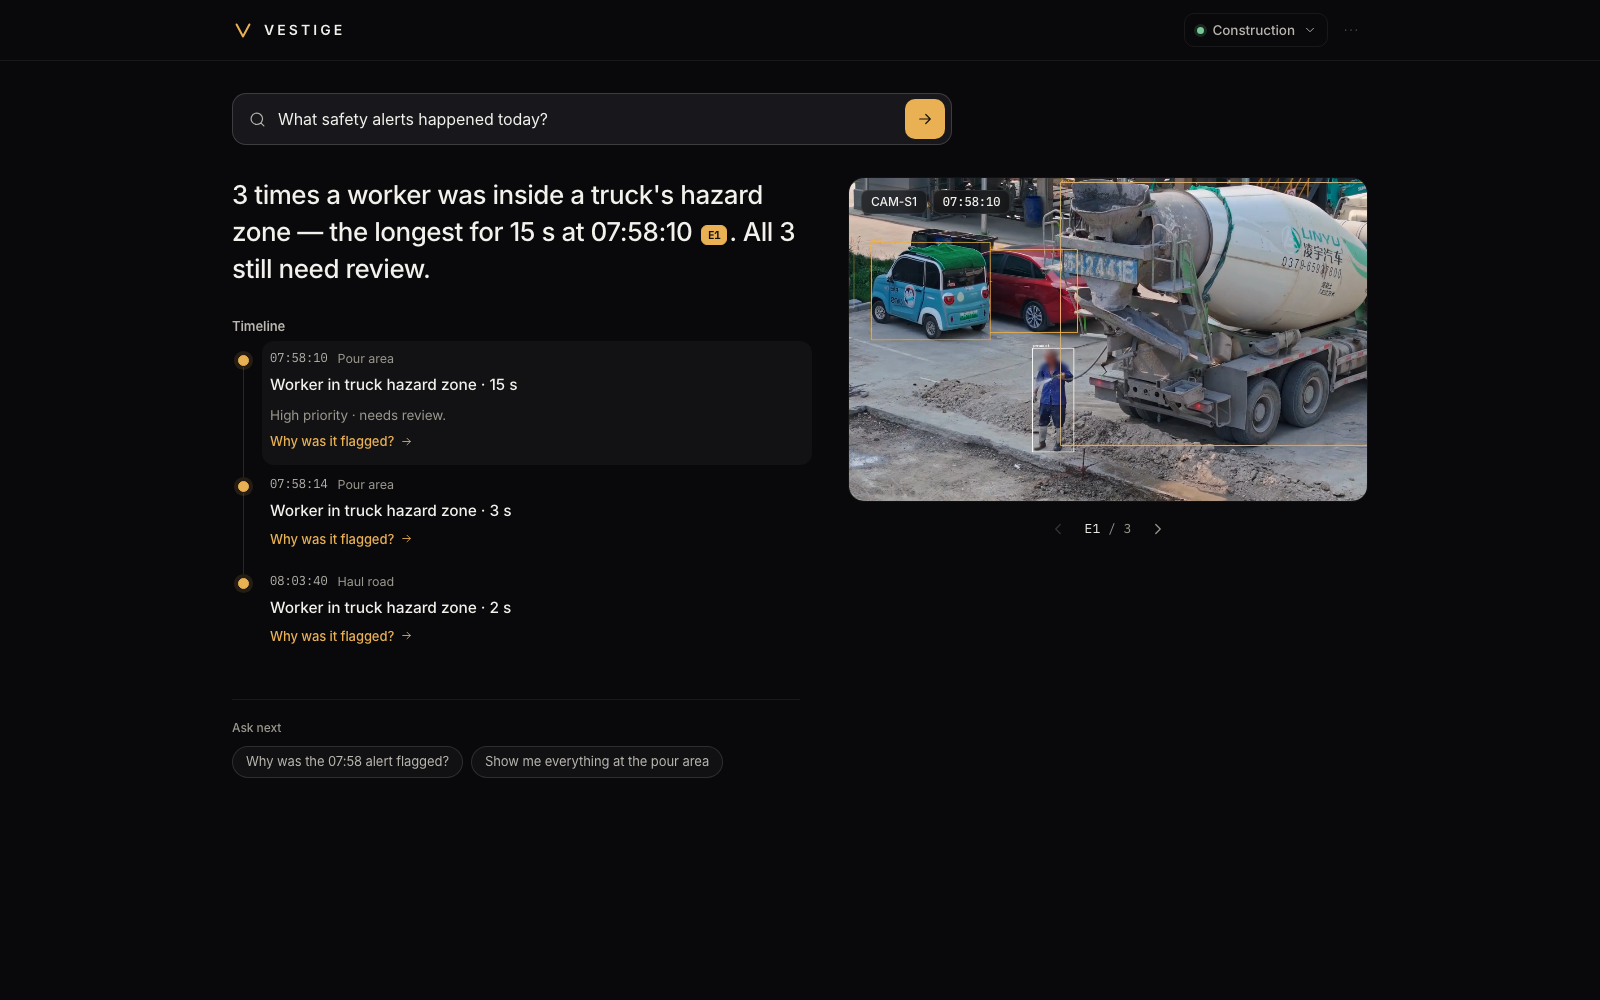
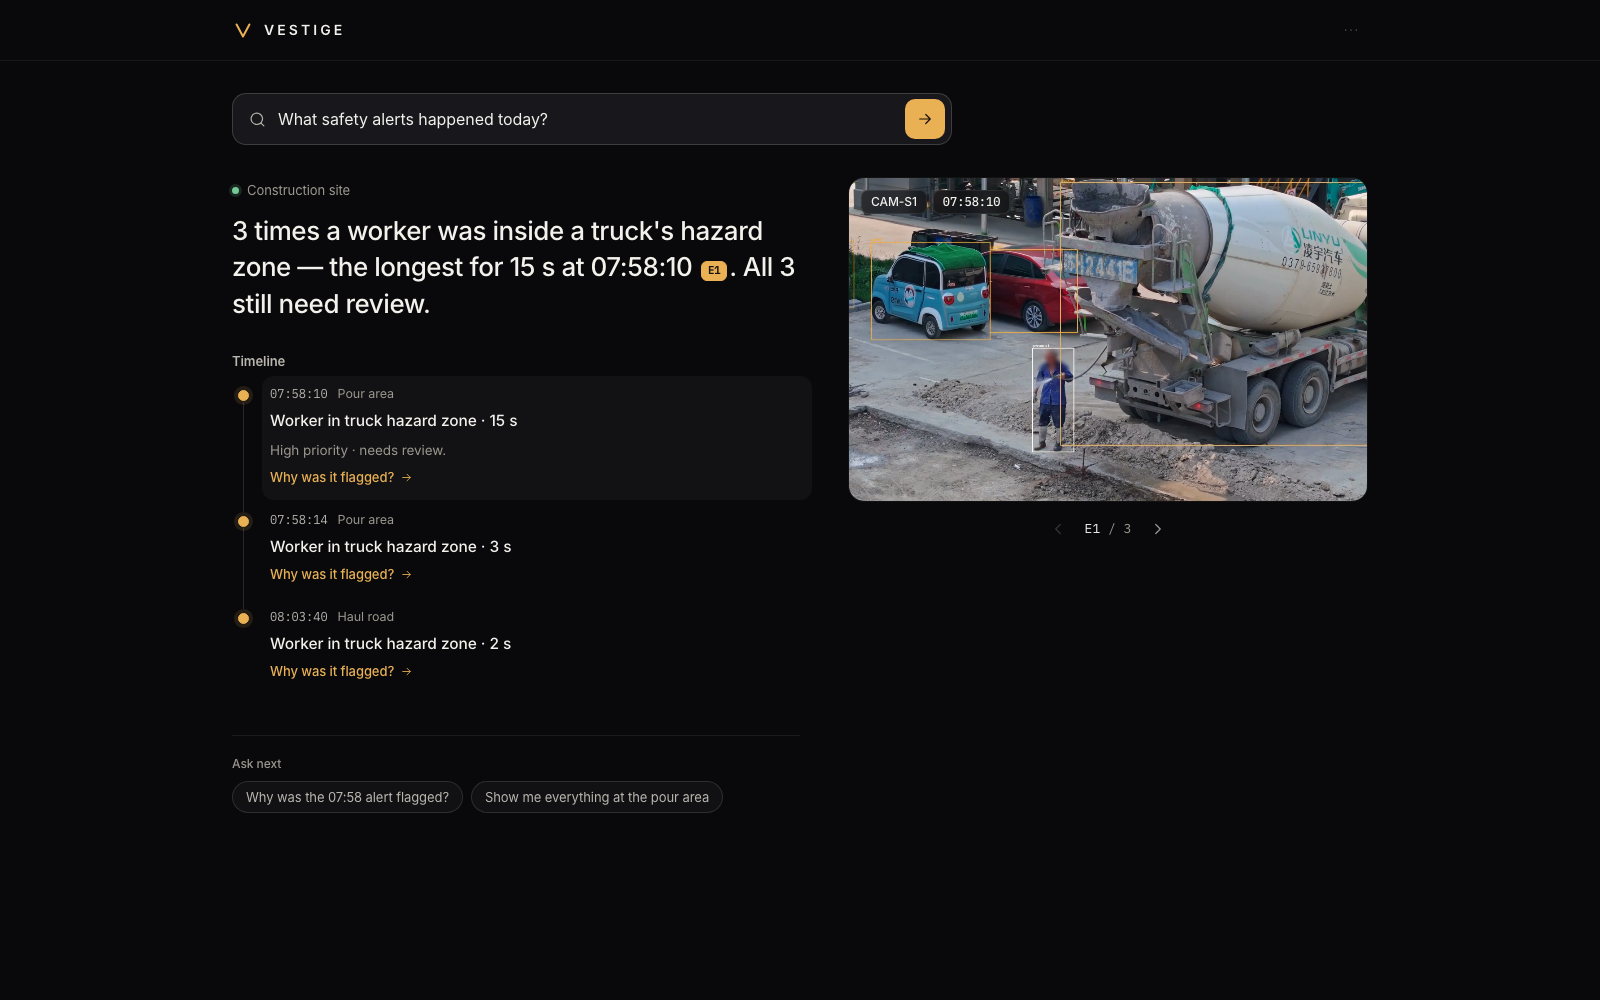
One search box for every site: questions are routed to the right site; alerts merged into one list
- POST /api/ask routes by keywords, clock time of an alert, or best evidence; event questions use the event's site
- GET /api/alerts merges open alerts across sites; GET /api/suggestions
- Home: no site tabs or switcher; one showcase, examples spanning all sites, one 'Needs review' list
- Answer shows which site it came from; test for routing

Changed region(s): [[0.125, 0.186, 0.5, 0.682], [0.1562, 0.744, 0.4375, 0.806]]

diff --git a/app/pages/ask.js b/app/pages/ask.js
@@ -4,21 +4,15 @@ import { Cited, Err, html, Icon, Skel, Steps, Story, Toast, Viewer, hhmmss } fro
 import { SiteMap } from "./memory.js";
 
 // Alerts waiting for a person, shown on the home page: one click opens the answer.
-function Inbox({ ws, onOpen }) {
+function Inbox({ onOpen }) {
   const [items, setItems] = useState(null);
-  useEffect(() => {
-    api.events(ws).then(async (evs) => {
-      const open = evs.filter((e) => e.status === "open").sort((a, b) => a.ts_start.localeCompare(b.ts_start)).slice(0, 4);
-      const withImg = await Promise.all(open.map(async (e) => ({ ...e, img: e.evidence_id ? (await api.evidence(e.evidence_id, ws).catch(() => null))?.url : null })));
-      setItems(withImg);
-    }).catch(() => setItems([]));
-  }, [ws]);
+  useEffect(() => { api.alerts().then((xs) => setItems(xs.slice(0, 4))).catch(() => setItems([])); }, []);
   if (!items?.length) return null;
   return html`<section class="inbox fadein">
     <div class="section-t">Needs review <span class="dim">· ${items.length}</span></div>
     <div class="inbox-row">${items.map((e) => html`<button class="alert" onClick=${() => onOpen(e)}>
       ${e.img ? html`<img src=${e.img} alt="" loading="lazy" />` : html`<div class="alert-noimg"></div>`}
-      <div class="alert-b"><b>${e.title}</b><span><i class=${`pdot ${e.priority}`}></i>${hhmmss(e.ts_start)}${e.metrics?.duration_s ? ` · ${Math.round(e.metrics.duration_s)} s` : ""}</span></div>
+      <div class="alert-b"><b>${e.title}</b><span><i class=${`pdot ${e.priority}`}></i>${hhmmss(e.ts_start)} · ${e.place || e.site}</span></div>
     </button>`)}</div>
   </section>`;
 }
@@ -46,12 +40,12 @@ const clip = (t, n = 64) => (t.length > n ? t.slice(0, n - 1).replace(/\s+\S*$/,
 
 // Showcase: a real answer from this workspace's memory, told as a strip of moments.
 // Solid = observed on camera, dashed = inferred between cameras, hatched gap = no coverage.
-function Showcase({ ws, setWs, go }) {
-  const scene = SCENES.find((x) => x.ws === ws) || SCENES[0];
+function Showcase({ go }) {
+  const scene = SCENES[0];
   const [ans, setAns] = useState(null);
   const [i, setI] = useState(0);
   const [auto, setAuto] = useState(true);
-  useEffect(() => { api.ask(scene.ws, scene.q).then(setAns).catch(() => setAns(null)); }, [scene.ws]);
+  useEffect(() => { api.ask(scene.ws, scene.q).then(setAns).catch(() => setAns(null)); }, []);
   const moments = (ans?.steps || []).filter((st) => st.n != null || st.status === "UNKNOWN")
     .sort((a, b) => (a.ts && b.ts ? a.ts.localeCompare(b.ts) : 0))
     .filter((st, k, arr) => k === 0 || st.n == null || st.n !== arr[k - 1].n).slice(0, 5);
@@ -67,11 +61,10 @@ function Showcase({ ws, setWs, go }) {
   const frame = cite?.url || lastFrame.current;
   return html`<div class="show">
     <div class="show-top">
-      <div class="seg" role="tablist" aria-label="Demo workspace">${SCENES.map((x) => html`<button role="tab" aria-selected=${x.ws === ws}
-        class=${x.ws === ws ? "on" : ""} onClick=${() => setWs(x.ws)}>${x.name}</button>`)}</div>
-      <button class="link" onClick=${() => go("ask", null, { ws: scene.ws, q: scene.q })}>“${scene.q}” <${Icon} name="arrow" size=${14} /></button>
+      <span class="show-site"><span class="live"></span>${scene.name}</span>
+      <button class="link" onClick=${() => go("ask", null, { q: scene.q })}>“${scene.q}” <${Icon} name="arrow" size=${14} /></button>
     </div>
-    <div class="show-frame" role="button" tabindex="0" onClick=${() => go("ask", null, { ws: scene.ws, q: scene.q })}>
+    <div class="show-frame" role="button" tabindex="0" onClick=${() => go("ask", null, { q: scene.q })}>
       ${frame ? html`<img key=${frame} class="fadein-fast" src=${frame} alt=${cite?.caption || "evidence frame"} />` : html`<div class="skel" style="position:absolute;inset:0"></div>`}
       ${cur?.status === "UNKNOWN" ? html`<div class="show-unknown"><span>No camera covers what happened next.</span></div>` : null}
       ${cur ? html`<div class="show-cap"><span class=${`tag-s ${cur.status}`}>${STATE[cur.status] || cur.status}</span>
@@ -106,7 +99,7 @@ export function AskPage({ ws, setWs, go, route }) {
     if (!text) return;
     setQ(text); setBusy(true); setErr(null); setReviewed(null);
     try {
-      const r = await api.ask(ws, text, eventId);
+      const r = await api.askAny(text, eventId);
       // default to the evidence that answers the question (first citation in the conclusion)
       const m = (r.headline || "").match(/\[E(\d+)\]/);
       const visual = r.citations.find((c) => c.url || c.proxy_url || c.clip_url);
@@ -124,7 +117,10 @@ export function AskPage({ ws, setWs, go, route }) {
   const review = async (d) => {
     try { await api.review(res.subject.id, d, ""); setReviewed(d); setToast("Saved to the audit log"); } catch (e) { setToast(String(e.message)); }
   };
-  useEffect(() => { api.overview(ws).then((o) => setSugs(o.suggestions || [])).catch(() => {}); }, [ws]);
+  const [examples, setExamples] = useState([]);
+  const [bySite, setBySite] = useState({});
+  useEffect(() => { api.suggestions().then((x) => { setExamples(x.examples); setBySite(x.by_site); }).catch(() => {}); }, []);
+  useEffect(() => { setSugs(res ? bySite[res.workspace?.id] || examples : examples); }, [res, bySite, examples]);
   useEffect(() => {
     const k = (e) => { if (e.key === "/" && document.activeElement !== input.current) { e.preventDefault(); input.current?.focus(); } };
     addEventListener("keydown", k);
@@ -146,12 +142,12 @@ export function AskPage({ ws, setWs, go, route }) {
           <h1 class="display">The world<br/>leaves a trace.</h1>
           <p class="lede">Ask what happened. See the footage that answers it.</p>
           ${box(true)}
-          <div class="chips">${sugs.slice(0, 2).map((s) => html`<button class="chip-q" onClick=${() => run(s)}>${s}</button>`)}</div>
+          <div class="chips">${examples.map((s) => html`<button class="chip-q" onClick=${() => run(s)}>${s}</button>`)}</div>
           <${Err} error=${err} />
         </div>
-        <div class="h-right"><${Showcase} ws=${ws} setWs=${setWs} go=${go} /></div>
+        <div class="h-right"><${Showcase} go=${go} /></div>
       </section>
-      <${Inbox} ws=${ws} onOpen=${openEvent} />
+      <${Inbox} onOpen=${openEvent} />
     </div>`;
   }
 
@@ -163,6 +159,7 @@ export function AskPage({ ws, setWs, go, route }) {
     ${busy ? html`<div class="answer-grid"><div class="stack"><${Skel} h=${44} w="70%" /><${Skel} h=${90} /><${Skel} h=${90} /><${Skel} h=${90} /></div><${Skel} h=${360} /></div>` : html`
     <div class="answer-grid fadein">
       <div class="a-head">
+        ${res.workspace ? html`<div class="where"><span class="live"></span>${res.workspace.name}</div>` : null}
         ${res.headline ? html`<p class="headline"><${Cited} text=${res.headline} citations=${res.citations} active=${active} onCite=${setActive} /></p>` : null}
         ${res.subject?.type === "event" ? html`<div class="verdict">
           ${reviewed ? html`<span class="note">Marked as ${reviewed === "confirmed" ? "a real incident" : reviewed === "rejected" ? "a false alarm" : "not sure"}.</span>`
@@ -175,7 +172,7 @@ export function AskPage({ ws, setWs, go, route }) {
         <div class="section-t">Timeline</div>
         ${res.steps?.length ? html`<${Steps} steps=${res.steps} active=${active} onPick=${setActive} onOpen=${(id, ts) => openEvent({ id, ts_start: ts })} />`
           : html`<${Story} sentences=${res.sentences} citations=${res.citations} active=${active} onPick=${setActive} gaps=${res.gaps} />`}
-        ${res.subject?.type === "object" ? html`<${ObjectMap} ws=${ws} id=${res.subject.id} />` : null}
+        ${res.subject?.type === "object" ? html`<${ObjectMap} ws=${res.workspace.id} id=${res.subject.id} />` : null}
         ${sugs.filter((x) => x !== res.question).length ? html`<div class="follow"><span class="label">Ask next</span>
           <div class="row wrap" style="gap:8px">${sugs.filter((x) => x !== res.question).slice(0, 3).map((x) => html`<button class="chip-q" onClick=${() => run(x)}>${x}</button>`)}</div></div>` : null}
       </div>

diff --git a/app/app.js b/app/app.js
@@ -83,9 +83,9 @@ function App() {
   return html`<div class="app">
     <header class="top"><div class="top-in">
       <a class="logo" href="#/ask" aria-label="VESTIGE home"><svg viewBox="0 0 24 24" width="22" height="22"><path d="M5 6l7 13 7-13" fill="none" stroke="currentColor" stroke-width="2.2" stroke-linecap="round" stroke-linejoin="round"/></svg><span>VESTIGE</span></a>
-      <div class="top-r"><${SiteSwitch} ws=${ws} setWs=${setWs} sites=${sites} /><${More} page=${route.page} /></div>
+      <div class="top-r">${Page === AskPage ? null : html`<${SiteSwitch} ws=${ws} setWs=${setWs} sites=${sites} />`}<${More} page=${route.page} /></div>
     </div></header>
-    <main class="main"><${Page} ...${props} key=${(Page === AskPage ? "ask" : route.page) + ws + (Page === AskPage ? (route.q.get("q") || "") + (route.q.get("event") || route.arg || "") : "")} /></main>
+    <main class="main"><${Page} ...${props} key=${Page === AskPage ? "ask" + (route.q.get("q") || "") + (route.q.get("event") || route.arg || "") : route.page + ws} /></main>
   </div>`;
 }
 

diff --git a/app/lib/api.js b/app/lib/api.js
@@ -24,6 +24,9 @@ export const api = {
   coverage: (ws) => req(`/api/workspaces/${ws}/coverage`),
   audit: (ws) => req(`/api/workspaces/${ws}/audit`),
   ask: (ws, question, event_id = null) => req(`/api/workspaces/${ws}/ask`, { method: "POST", body: JSON.stringify({ question, event_id }) }),
+  askAny: (question, event_id = null) => req("/api/ask", { method: "POST", body: JSON.stringify({ question, event_id }) }),
+  alerts: () => req("/api/alerts"),
+  suggestions: () => req("/api/suggestions"),
   zones: (ws) => req(`/api/workspaces/${ws}/zones`),
   trackObs: (tid) => req(`/api/tracks/${tid}/observations`),
   checkin: (ws, body) => req(`/api/workspaces/${ws}/checkin`, { method: "POST", body: JSON.stringify(body) }),

diff --git a/app/styles.css b/app/styles.css
@@ -623,3 +623,5 @@ table.t tr.sel td { background: rgba(255,255,255,.04); }
 @media (max-width: 1100px) { .inbox-row { grid-template-columns: repeat(2, minmax(0, 1fr)); } }
 @media (max-width: 760px) { .main { padding-bottom: 48px; } }
 .map.v2 { background: #0f1210; aspect-ratio: 16/9; }
+.show-site { display: inline-flex; align-items: center; gap: 8px; font-size: 13.5px; color: var(--text-2); font-weight: 500; }
+.where { display: inline-flex; align-items: center; gap: 8px; margin-bottom: 12px; font-size: 13px; color: var(--dim); }

diff --git a/vestige/agent.py b/vestige/agent.py
@@ -113,7 +113,38 @@ def _llm_intent(question: str) -> str | None:
         return None
 
 
-def ask(conn, workspace_id: str, question: str, event_id: str | None = None) -> dict:
+# Which place a question is about, when the user hasn't picked one. Keyword evidence first; if nothing matches,
+# every candidate workspace is asked and the answer with the most cited evidence wins.
+ROUTE_WORDS = {
+    "campus": r"\b(bikes?|bicycles?|scooters?|racks?|parking|parked|underpass|riverside|stolen|my)\b",
+    "metro": r"\b(metro|station|platform|trains?|intercom|radio|passengers?|commuters?|exit|emergency alert|alarm)\b",
+    "construction": r"\b(construction|site|workers?|trucks?|mixer|crane|excavator|pour|haul|safety|hazard|helmet|machinery)\b",
+}
+
+
+def route(conn, question: str, candidates: list[str]) -> tuple[str, str]:
+    q = question.lower()
+    kinds = {r["id"]: r["kind"] for r in conn.execute(
+        "SELECT id, kind FROM workspaces WHERE id IN (%s)" % ",".join("?" * len(candidates)), candidates)}
+    scores = {w: len(re.findall(ROUTE_WORDS.get(kinds.get(w, ""), r"$^"), q)) for w in candidates}
+    t = re.search(r"\b(\d{1,2}):(\d{2})", q)
+    if t:  # a clock time names the site that has an alert at that minute
+        hm = f"{int(t.group(1)):02d}:{t.group(2)}"
+        for w in candidates:
+            if conn.execute("SELECT 1 FROM events WHERE workspace_id=? AND substr(ts_start, 12, 5)=?", (w, hm)).fetchone():
+                scores[w] += 3
+    best = max(scores.values()) if scores else 0
+    top = [w for w in candidates if scores[w] == best]
+    if best > 0 and len(top) == 1:
+        return top[0], "keywords"
+    tried = []
+    for w in (top if best > 0 else candidates):
+        a = ask(conn, w, question, audit=False)
+        tried.append((len(a["citations"]) + (1 if a.get("headline") else 0), w))
+    return max(tried)[1], "best evidence"
+
+
+def ask(conn, workspace_id: str, question: str, event_id: str | None = None, audit: bool = True) -> dict:
     ws = db.row(conn.execute("SELECT * FROM workspaces WHERE id=?", (workspace_id,)).fetchone())
     if not ws:
         raise KeyError(workspace_id)
@@ -129,9 +160,12 @@ def ask(conn, workspace_id: str, question: str, event_id: str | None = None) -> 
     ans.intent = intent
     {"object_fate": _object_fate, "event_before": _event_before, "event_why": _event_why,
      "place": _place, "evidence": _event_before, "search": _search, "events_list": _events_list}[intent](conn, ws, ans, ents)
-    db.audit(conn, workspace_id, "user", "ask", intent, question[:200])
-    conn.commit()
-    return ans.to_json()
+    if audit:
+        db.audit(conn, workspace_id, "user", "ask", intent, question[:200])
+        conn.commit()
+    out = ans.to_json()
+    out["workspace"] = {"id": ws["id"], "name": ws["name"], "kind": ws["kind"]}
+    return out
 
 
 def _object_fate(conn, ws, ans: Answer, ents):
@@ -443,6 +477,7 @@ def _search(conn, ws, ans: Answer, ents):
     if not uniq:
         ans.sentences.append("Nothing in this workspace's memory matches that question. Try asking about an "
                              "object, an event, or a place.")
+        ans.headline = "I couldn't find that in what the cameras recorded. Try asking about an object, a place or an alert."
         return
     ans.headline = f"{len(uniq)} stored observations match your question."
     ans.sentences.append(f"{len(uniq)} matching observations:")

diff --git a/vestige/api.py b/vestige/api.py
@@ -255,6 +255,56 @@ def ask(ws: str, body: Question):
     return out
 
 
+# Sites a user sees as one product (benchmarks are engineering-only).
+SITES = ["construction", "campus", "metro"]
+
+
+@app.post("/api/ask")
+def ask_anywhere(body: Question):
+    """One search box for every site the user may access: the event's own site, or the site the question is about."""
+    q = body.question.strip()
+    if not q:
+        raise HTTPException(400, "empty question")
+    c = conn()
+    sites = [w for w in SITES if w in ALLOWED[USER]]
+    if body.event_id:
+        e = c.execute("SELECT workspace_id FROM events WHERE id=?", (body.event_id,)).fetchone()
+        if not e:
+            raise HTTPException(404, "event not found")
+        guard(e[0])
+        ws, how = e[0], "event"
+    else:
+        ws, how = agent.route(c, q, sites)
+    t = time.perf_counter()
+    out = agent.ask(c, ws, q, body.event_id)
+    out["latency_ms"] = round(1000 * (time.perf_counter() - t), 1)
+    out["routed_by"] = how
+    return out
+
+
+@app.get("/api/alerts")
+def alerts():
+    """Open alerts across every site, oldest first, with their evidence frame and place."""
+    c = conn()
+    out = []
+    for w in [w for w in SITES if w in ALLOWED[USER]]:
+        name = db.row(c.execute("SELECT name FROM workspaces WHERE id=?", (w,)).fetchone())
+        for e in memory.search_events(c, w):
+            if e["status"] != "open":
+                continue
+            ev = memory.get_evidence(c, e["evidence_id"]) if e.get("evidence_id") else None
+            out.append({**e, "site": name["name"] if name else w, "img": (ev or {}).get("url"),
+                        "place": ((ev or {}).get("source") or {}).get("name", "").split(" · ")[-1]})
+    return sorted(out, key=lambda e: (SITES.index(e["workspace_id"]), e["ts_start"]))
+
+
+@app.get("/api/suggestions")
+def suggestions():
+    return {"examples": ["What safety alerts happened today?", "What happened to my bicycle?",
+                         "What happened before the platform alarm?"],
+            "by_site": {w: SUGGESTIONS.get(w, []) for w in SITES}}
+
+
 class CheckIn(BaseModel):
     object_id: str | None = None
     label: str = "my bicycle"

diff --git a/tests/test_vestige.py b/tests/test_vestige.py
@@ -204,3 +204,15 @@ def test_headline_and_steps_only_cite_stored_evidence():
         assert all(s["n"] is None or s["n"] in ns for s in a["steps"])
     last = agent.ask(c, "campus", "Where was my bike last seen?")["headline"]
     assert last.startswith("Last seen directly") and "not confirmed" in last and "unknown" in last
+
+
+def test_one_search_box_routes_to_the_right_site():
+    cases = {"What safety alerts happened today?": "construction", "What happened to my bicycle?": "campus",
+             "What happened before the platform alarm?": "metro", "Why was the 07:58 alert flagged?": "construction"}
+    for q, ws in cases.items():
+        r = client.post("/api/ask", json={"question": q})
+        assert r.status_code == 200 and r.json()["workspace"]["id"] == ws, q
+    ev = db.connect().execute("SELECT id FROM events WHERE workspace_id='metro' LIMIT 1").fetchone()[0]
+    assert client.post("/api/ask", json={"question": "Why was this flagged?", "event_id": ev}).json()["workspace"]["id"] == "metro"
+    alerts = client.get("/api/alerts").json()
+    assert alerts and all(a["status"] == "open" for a in alerts) and alerts[0]["workspace_id"] == "construction"

diff --git a/vestige/scenarios.py b/vestige/scenarios.py
@@ -22,9 +22,9 @@ PEXELS = "Pexels License"
 WORKSPACES = [
     {"id": "campus", "name": "Campus", "kind": "campus",
      "description": "Bicycle parking and paths — stitched from public footage (Pexels)."},
-    {"id": "metro", "name": "Metro demo", "kind": "metro",
+    {"id": "metro", "name": "Metro station", "kind": "metro",
      "description": "Virtual station replay from the TRACE engine (stock clips, scripted alarm and radio)."},
-    {"id": "construction", "name": "Construction", "kind": "construction",
+    {"id": "construction", "name": "Construction site", "kind": "construction",
      "description": "Construction-site footage (Pexels). Not a WanZe site."},
 ]
 

diff --git a/README.md b/README.md
@@ -17,7 +17,7 @@ Wei-Lun Hsiao · B13902049 · National Taiwan University · *VESTIGE — an Arch
 | Detection + tracking on video (YOLO11 + ByteTrack + tracklet stitching) | ✅ Done, tested | runs on a laptop today |
 | World Memory: objects, events, evidence, coverage gaps, provenance on every row | ✅ Done, tested | SQLite |
 | Cross-camera links (camera adjacency + travel time + colour) | ✅ Done, tested | stored as *inferred*, never as identity |
-| Ask: one page — conclusion, evidence video at the moment, timeline, map ("What safety alerts happened today?", "What happened to my bicycle?") | ✅ Done, tested | deterministic tool planner; optional local LLM picks intent only |
+| Ask: one search box for every site — it works out which site the question is about; conclusion, evidence video at the moment, timeline, map | ✅ Done, tested | deterministic tool planner + site routing; optional local LLM picks intent only |
 | Alerts to review: lead-up, why it was flagged, real / false alarm / not sure + audit log | ✅ Done, tested | |
 | IncidentLab: stress tests (low light, blur, noise, low-res, occlusion, scale) + mitigations | ✅ Done, measured | results below |
 | Three demo workspaces: **construction safety (first market)**, campus bicycle, metro incident | ✅ Done | public footage + staged inputs, labelled; not a WanZe site |
